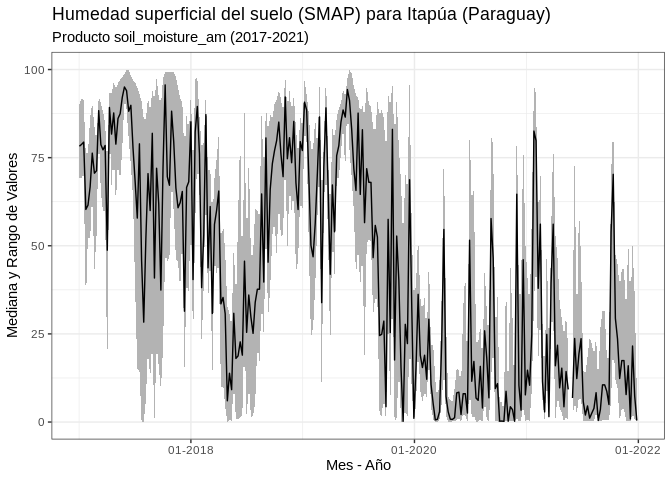
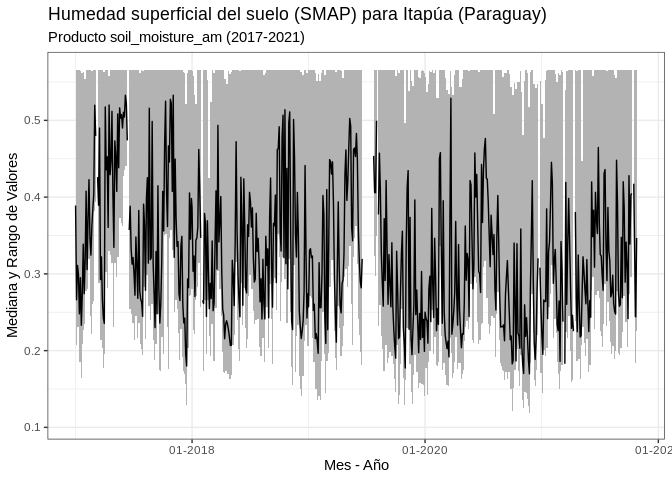
Corrección SMAP. Comentarios SSL

diff --git a/README.md b/README.md
@@ -8,7 +8,7 @@
 
 #### Guillermo Podestá (<gpodesta@rsmas.miami.edu>)
 
-#### 7 de diciembre de 2021
+#### 30 de mayo de 2022
 
 # 1. Introducción
 
@@ -141,7 +141,11 @@ tener que detenerse en detalles como la autenticación o la conversión de
 datos devueltos.
 
 ``` r
-# Esto permite ignorar posibles errores en la conexión SSL
+# Definición de funciones globales, en lenguaje R.
+
+# El parámetro ssl_verifypeer=FALSE implica que no se va a verificar la validez del certificado 
+# utilizado en la conexión SSL establecida con la API del CRC-SAS. Esto es útil cuando la máquina 
+# cliente no puede validar el certificado emitido por la CA del CRC-SAS.
 httr::set_config( httr::config(ssl_verifypeer = FALSE) )
 
 # Función para acceder a un servicio web definido por una URL utilizando el método GET.
@@ -3441,13 +3445,14 @@ knitr::kable(head(datos.smap, 15))
 fecha.desde <- ConvertirFechaISO8601(as.Date("2017-01-01", tz = UTC))
 fecha.hasta <- ConvertirFechaISO8601(as.Date("2021-12-31", tz = UTC))
 url.smap    <- glue::glue("{base.url}/smap/serie_temporal/soil_moisture_am/{fecha.desde}/{fecha.hasta}")
-datos.smap  <- ConsumirServicioEspacialSerieTemporal(url = url.grace,
+datos.smap  <- ConsumirServicioEspacialSerieTemporal(url = url.smap,
                                                      usuario = usuario.default, 
                                                      clave = clave.default,
                                                      archivo.geojson.zona = paste0(getwd(), "/data/ItapuaPY.geojson"))
 
 # Serie temporal
 datos.smap.filt <- datos.smap %>%
+  dplyr::mutate(valor = ifelse(valor > 1, NA, valor)) %>%
   dplyr::mutate(fecha = as.Date(fecha)) %>%
   dplyr::filter(estadistico %in% c("0%", "50%", "100%")) %>%
   tidyr::pivot_wider(names_from = estadistico, values_from = valor)
